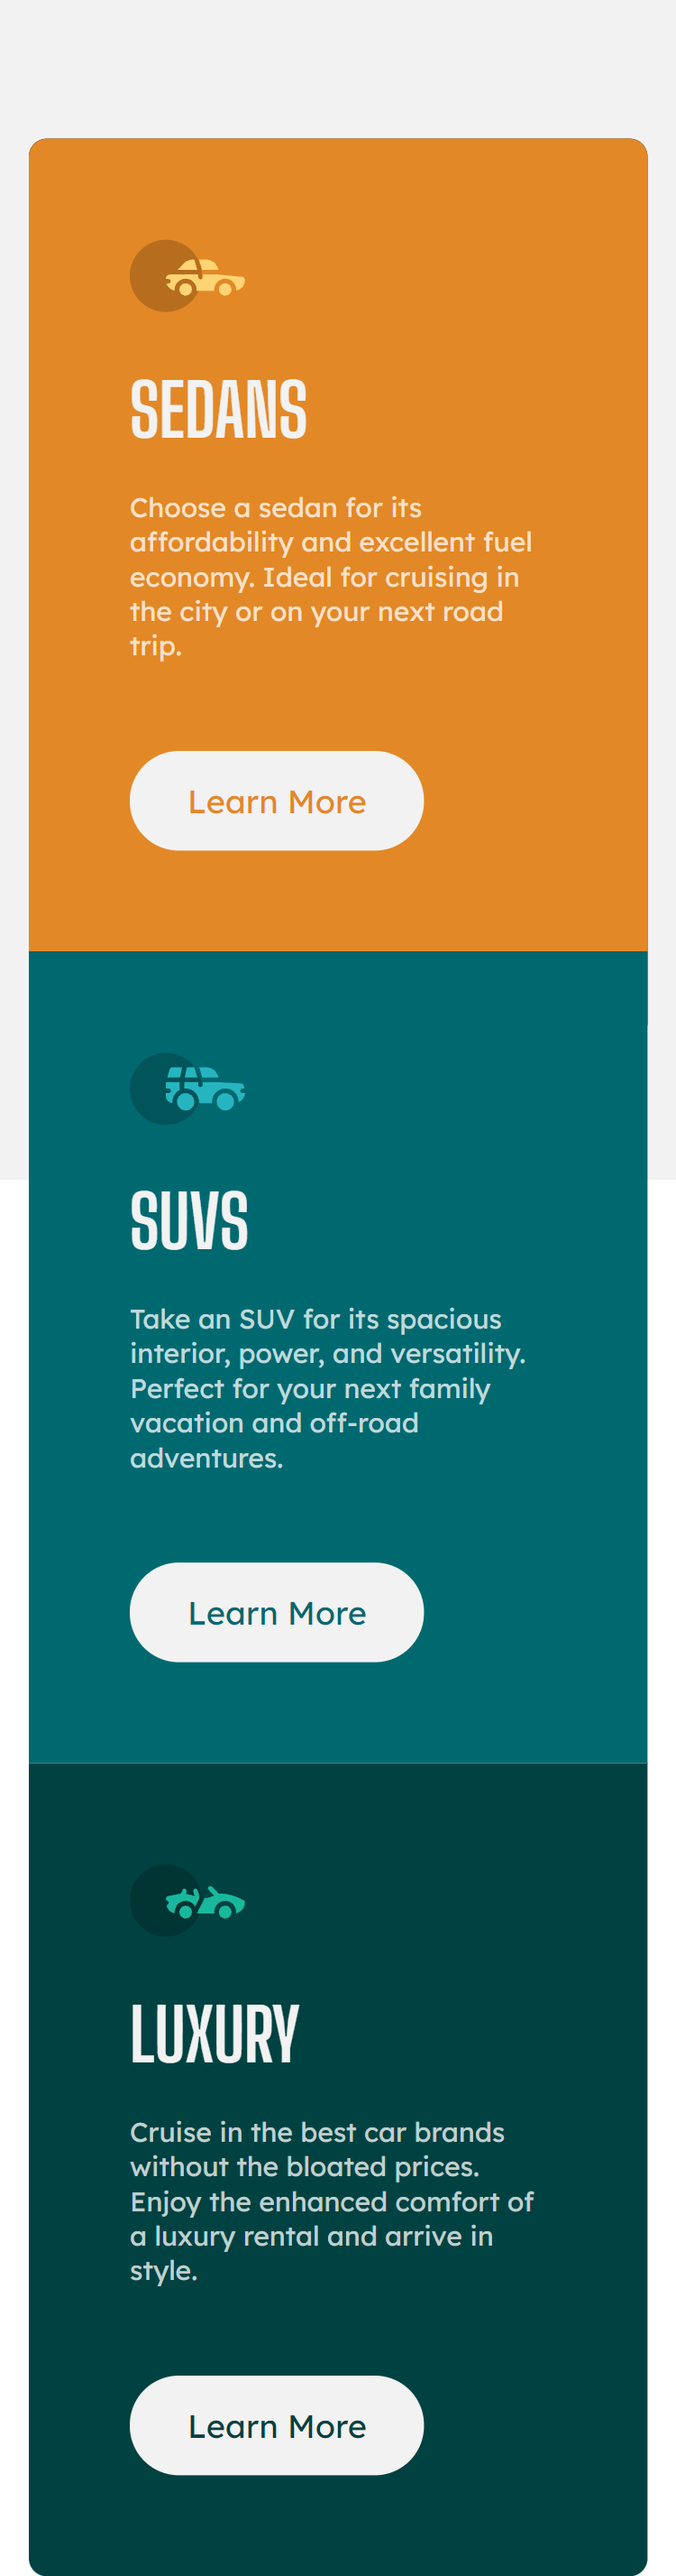
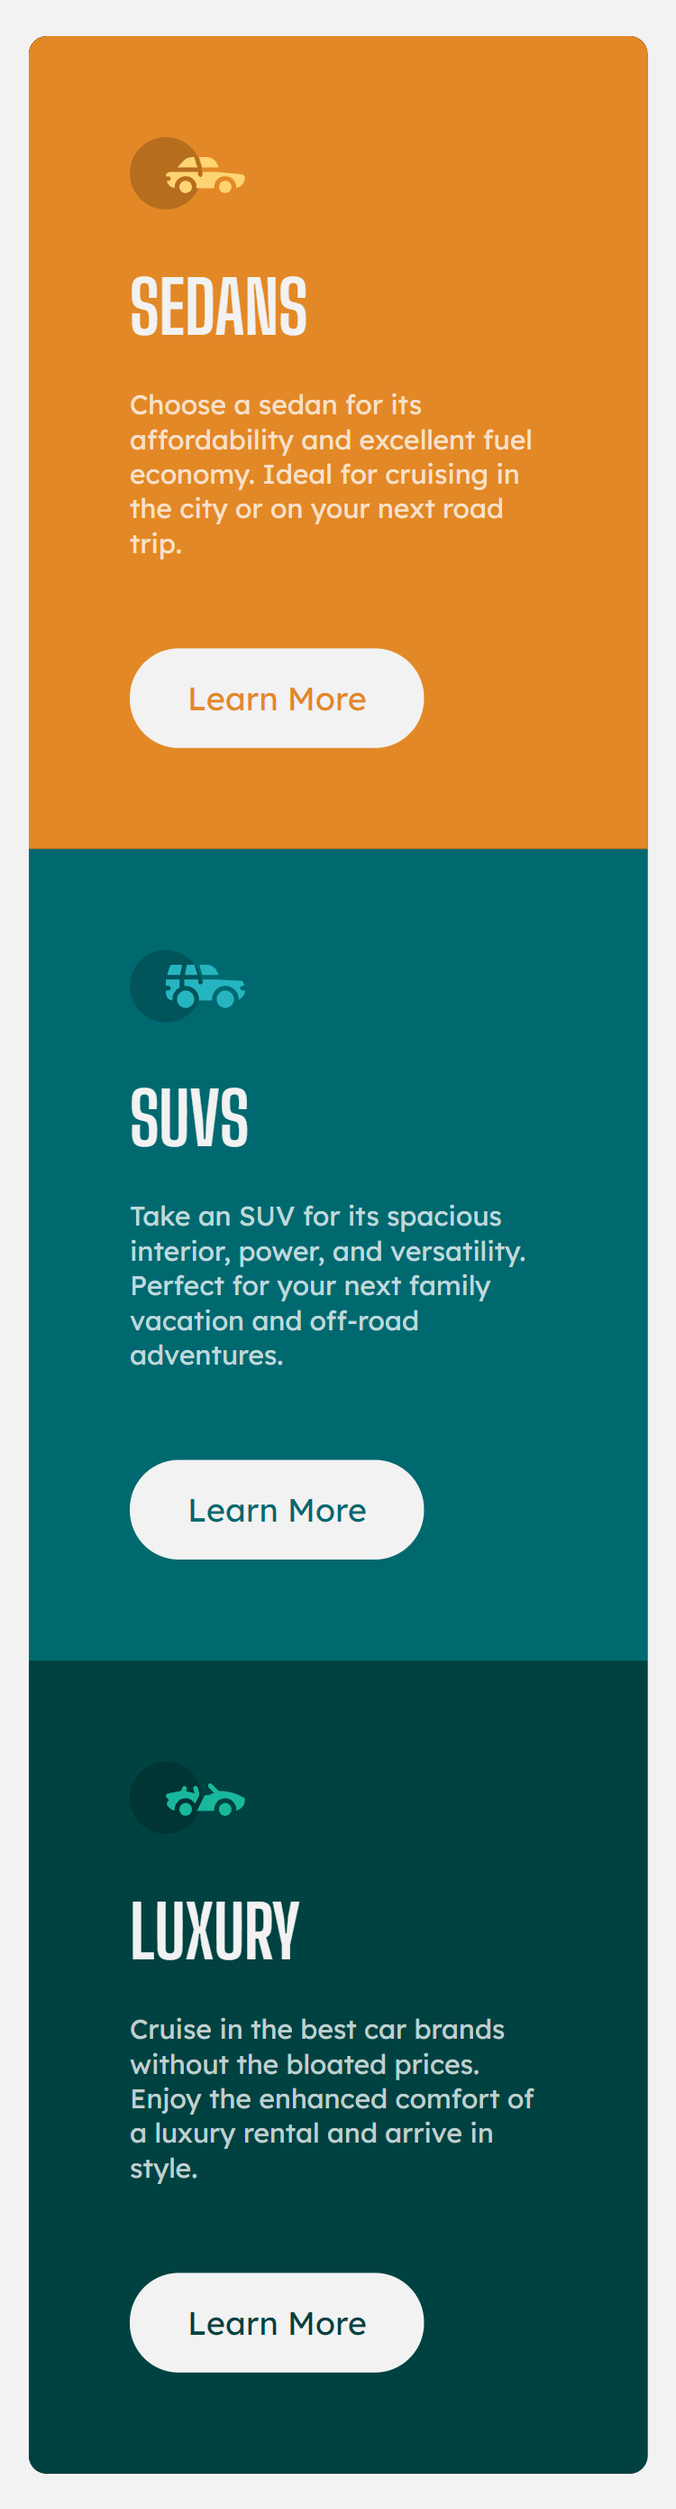
fixes commit

Changed region(s): [[0.0307, 0.0, 0.9813, 1.0]]

diff --git a/style.css b/style.css
@@ -85,9 +85,13 @@
   .content {
     flex-direction: column;
     width: 100%;
+    height: auto;
   }
   .background {
-    padding: 16px;
+    padding: 20px 16px;
+    width: 100%;
+    height: auto;
+    background-color: hsl(0, 0%, 95%);
   }
   .Sedans {
     border-radius: 10px 10px 0 0;
